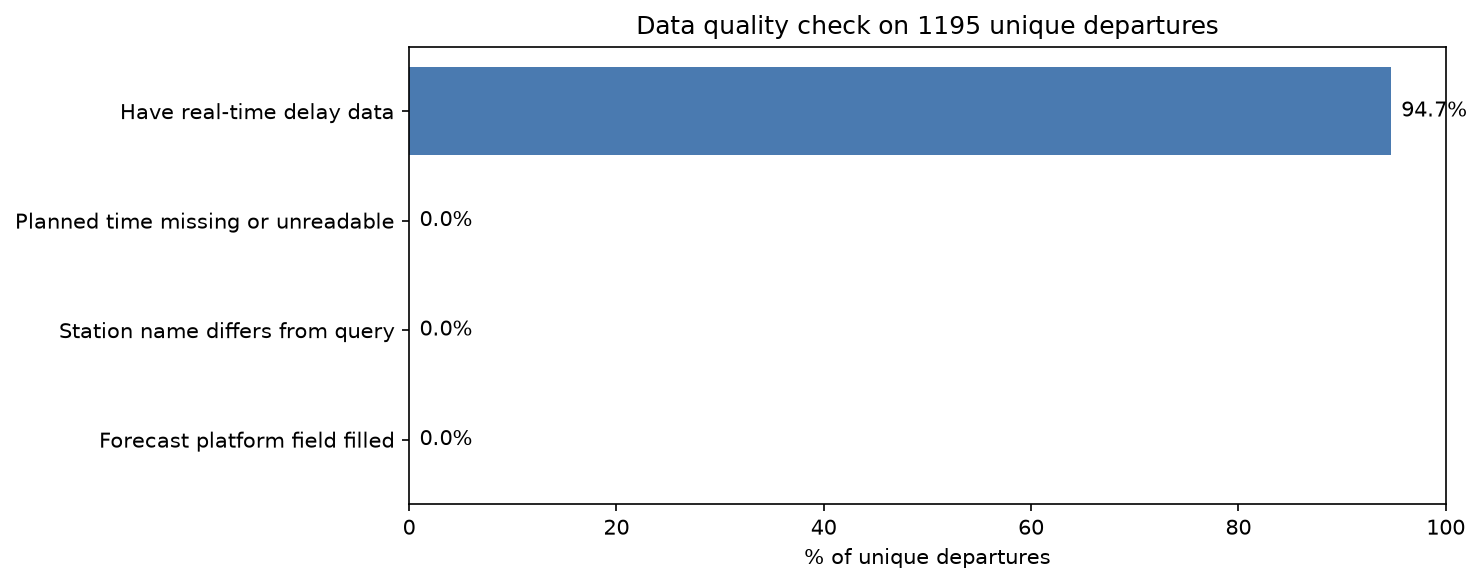
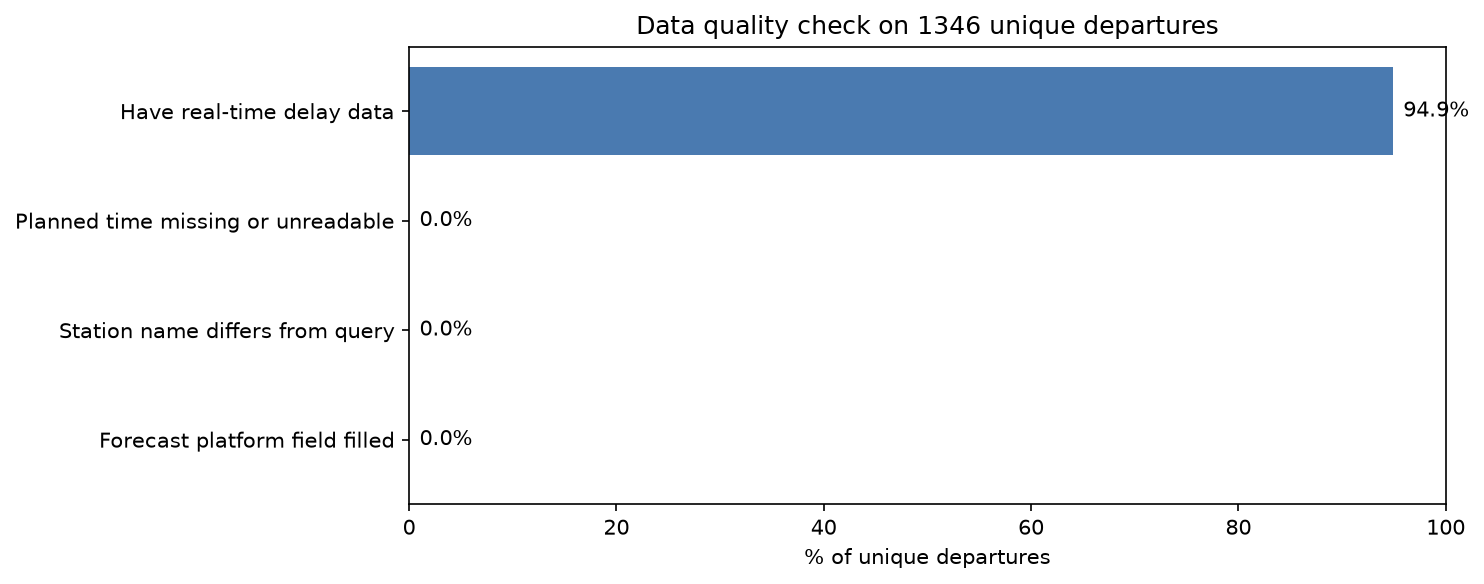
report: update results

diff --git a/reports/summary.md b/reports/summary.md
@@ -1,18 +1,18 @@
 # Latest results
 
-Data from 2026-11-19 19:38 to 2026-11-27 00:42 (Swiss time), 9 day file(s), 18 snapshots.
+Data from 2026-11-19 19:38 to 2026-11-28 00:21 (Swiss time), 10 day file(s), 20 snapshots.
 
-- Rows collected: 1,195
-- Unique departures: 1,195
-- Departures analysed (close to departure, with delay data): 834
-- On time (under 3 min late): 97.1%
-- Average delay: 0.39 min
-- 5+ min late: 1.4%
-- Lowest on-time rate: Lausanne (91.5%)
+- Rows collected: 1,346
+- Unique departures: 1,346
+- Departures analysed (close to departure, with delay data): 944
+- On time (under 3 min late): 97.2%
+- Average delay: 0.37 min
+- 5+ min late: 1.3%
+- Lowest on-time rate: Lausanne (91.6%)
 
 ## Data quality
 
-- Have real-time delay data: 94.7%
+- Have real-time delay data: 94.9%
 - Forecast platform field filled: 0.0%
 - Station name differs from query: 0.0%
 - Planned time missing or unreadable: 0.0%
